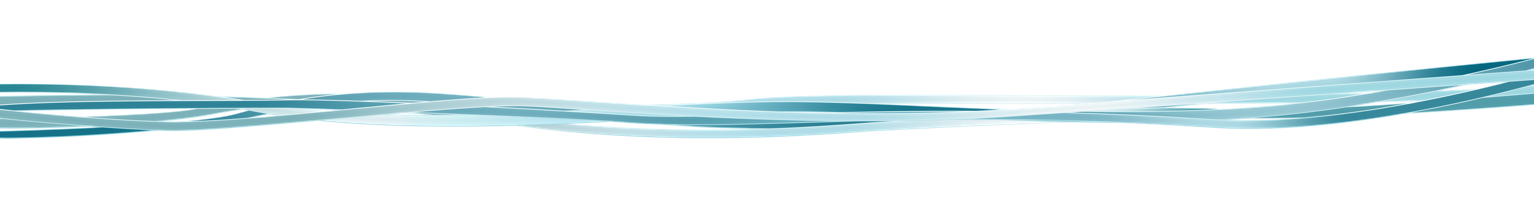
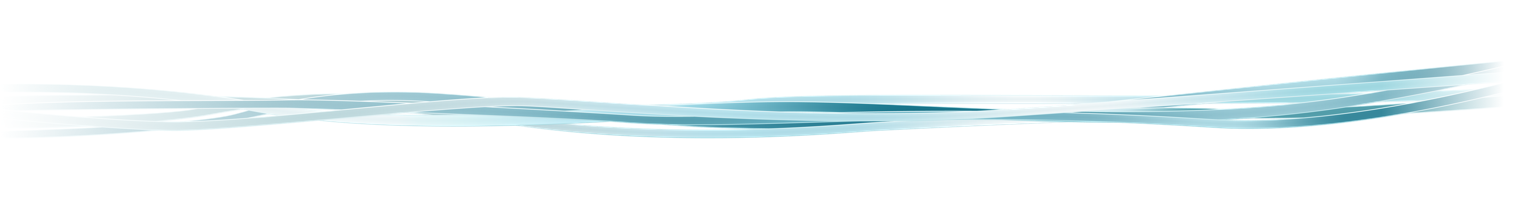
more resilient background ribbon for really wide screens and for usage on docs.as.com where the "content" div (on which the background ribbon is placed) is inside some padding. Answer: get the ribbon to fade out.
git-svn-id: http://svn.openkomodo.com/repos/komododoc/trunk@6488 b87d16e7-d29f-4ee1-b5ec-817d645d335f

Changed region(s): [[0.0, 0.42, 0.337, 0.69], [0.8885, 0.27, 1.0, 0.57]]

diff --git a/en-US/css/screen.css b/en-US/css/screen.css
@@ -137,7 +137,7 @@ div.app-ide-edit {
 }
 
 .top#content {
-    background: url("../img/ribbons.png") top left no-repeat;
+    background: url("../img/ribbons.png") top right no-repeat;
 }
 .top #title {
     height: 100px;
@@ -148,6 +148,3 @@ div.app-ide-edit {
  *    <div id="as_docs_content">...</div>
  */
 
-#as_docs_content #content {
-    background: none;
-}
